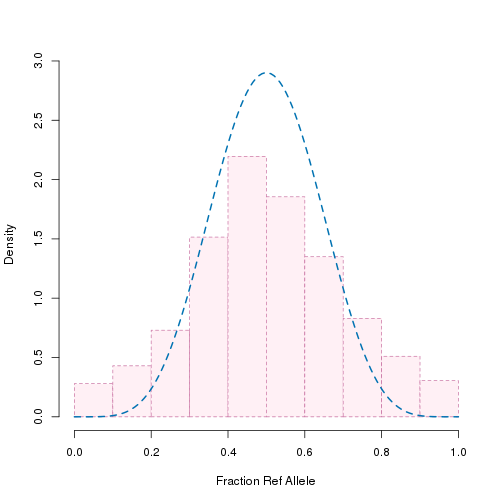
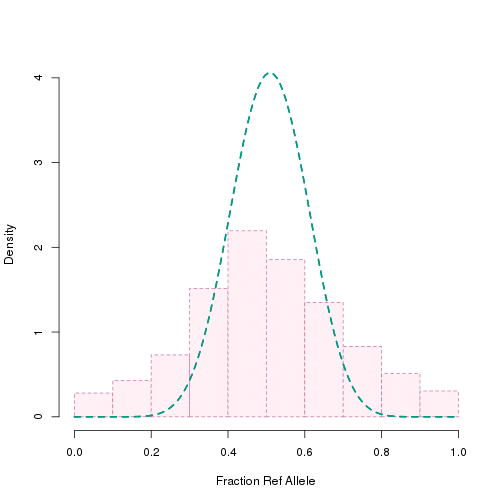
update

diff --git a/vignettes/npbin-dnase.md b/vignettes/npbin-dnase.md
@@ -215,12 +215,17 @@ plot(
 
 ![plot of chunk dnase_plot_space](figure/dnase_plot_space-1.png)
 
-Compute the symmetric shape parameter and plot the estimated null beta
+Compute the symmetric shape parameter and plot the estimated null beta (teal)
+superimposed with the null beta estimated from NPBin (blue).
 
 
 ```r
 shape = 1 / (2 * optimized_overdispersion_details[["b_choice"]]) - 1 / 2
-plot_estimated_null(data[["allelicRatio"]], shape, shape)
+plot_estimated_null(
+  data[["allelicRatio"]],
+  shape1_shape2 = c(15.30666, 15.11449),
+  shape3_shape4 = c(shape, shape)
+)
 ```
 
 ![plot of chunk npbin_dnase_estimated_null](figure/npbin_dnase_estimated_null-1.png)

diff --git a/vignettes/npbin-ctcf.md b/vignettes/npbin-ctcf.md
@@ -215,12 +215,17 @@ plot(
 
 ![plot of chunk ctcf_plot_space](figure/ctcf_plot_space-1.png)
 
-Compute the symmetric shape parameter and plot the estimated null beta
+Compute the symmetric shape parameter and plot the estimated null beta (teal)
+superimposed with the null beta estimated from NPBin (blue).
 
 
 ```r
 shape = 1 / (2 * optimized_overdispersion_details[["b_choice"]]) - 1 / 2
-plot_estimated_null(data[["allelicRatio"]], shape, shape)
+plot_estimated_null(
+  data[["allelicRatio"]],
+  shape1_shape2 = c(37.53662, 37.30897),
+  shape3_shape4 = c(shape, shape)
+)
 ```
 
 ![plot of chunk npbin_ctcf_estimated_null](figure/npbin_ctcf_estimated_null-1.png)

diff --git a/vignettes/npbin-atac.md b/vignettes/npbin-atac.md
@@ -215,12 +215,17 @@ plot(
 
 ![plot of chunk atac_plot_space](figure/atac_plot_space-1.png)
 
-Compute the symmetric shape parameter and plot the estimated null beta
+Compute the symmetric shape parameter and plot the estimated null beta (teal)
+superimposed with the null beta estimated from NPBin (blue).
 
 
 ```r
 shape = 1 / (2 * optimized_overdispersion_details[["b_choice"]]) - 1 / 2
-plot_estimated_null(data[["allelicRatio"]], shape, shape)
+plot_estimated_null(
+  data[["allelicRatio"]],
+  shape1_shape2 = c(13.41442, 12.97),
+  shape3_shape4 = c(shape, shape)
+)
 ```
 
 ![plot of chunk npbin_atac_estimated_null](figure/npbin_atac_estimated_null-1.png)
